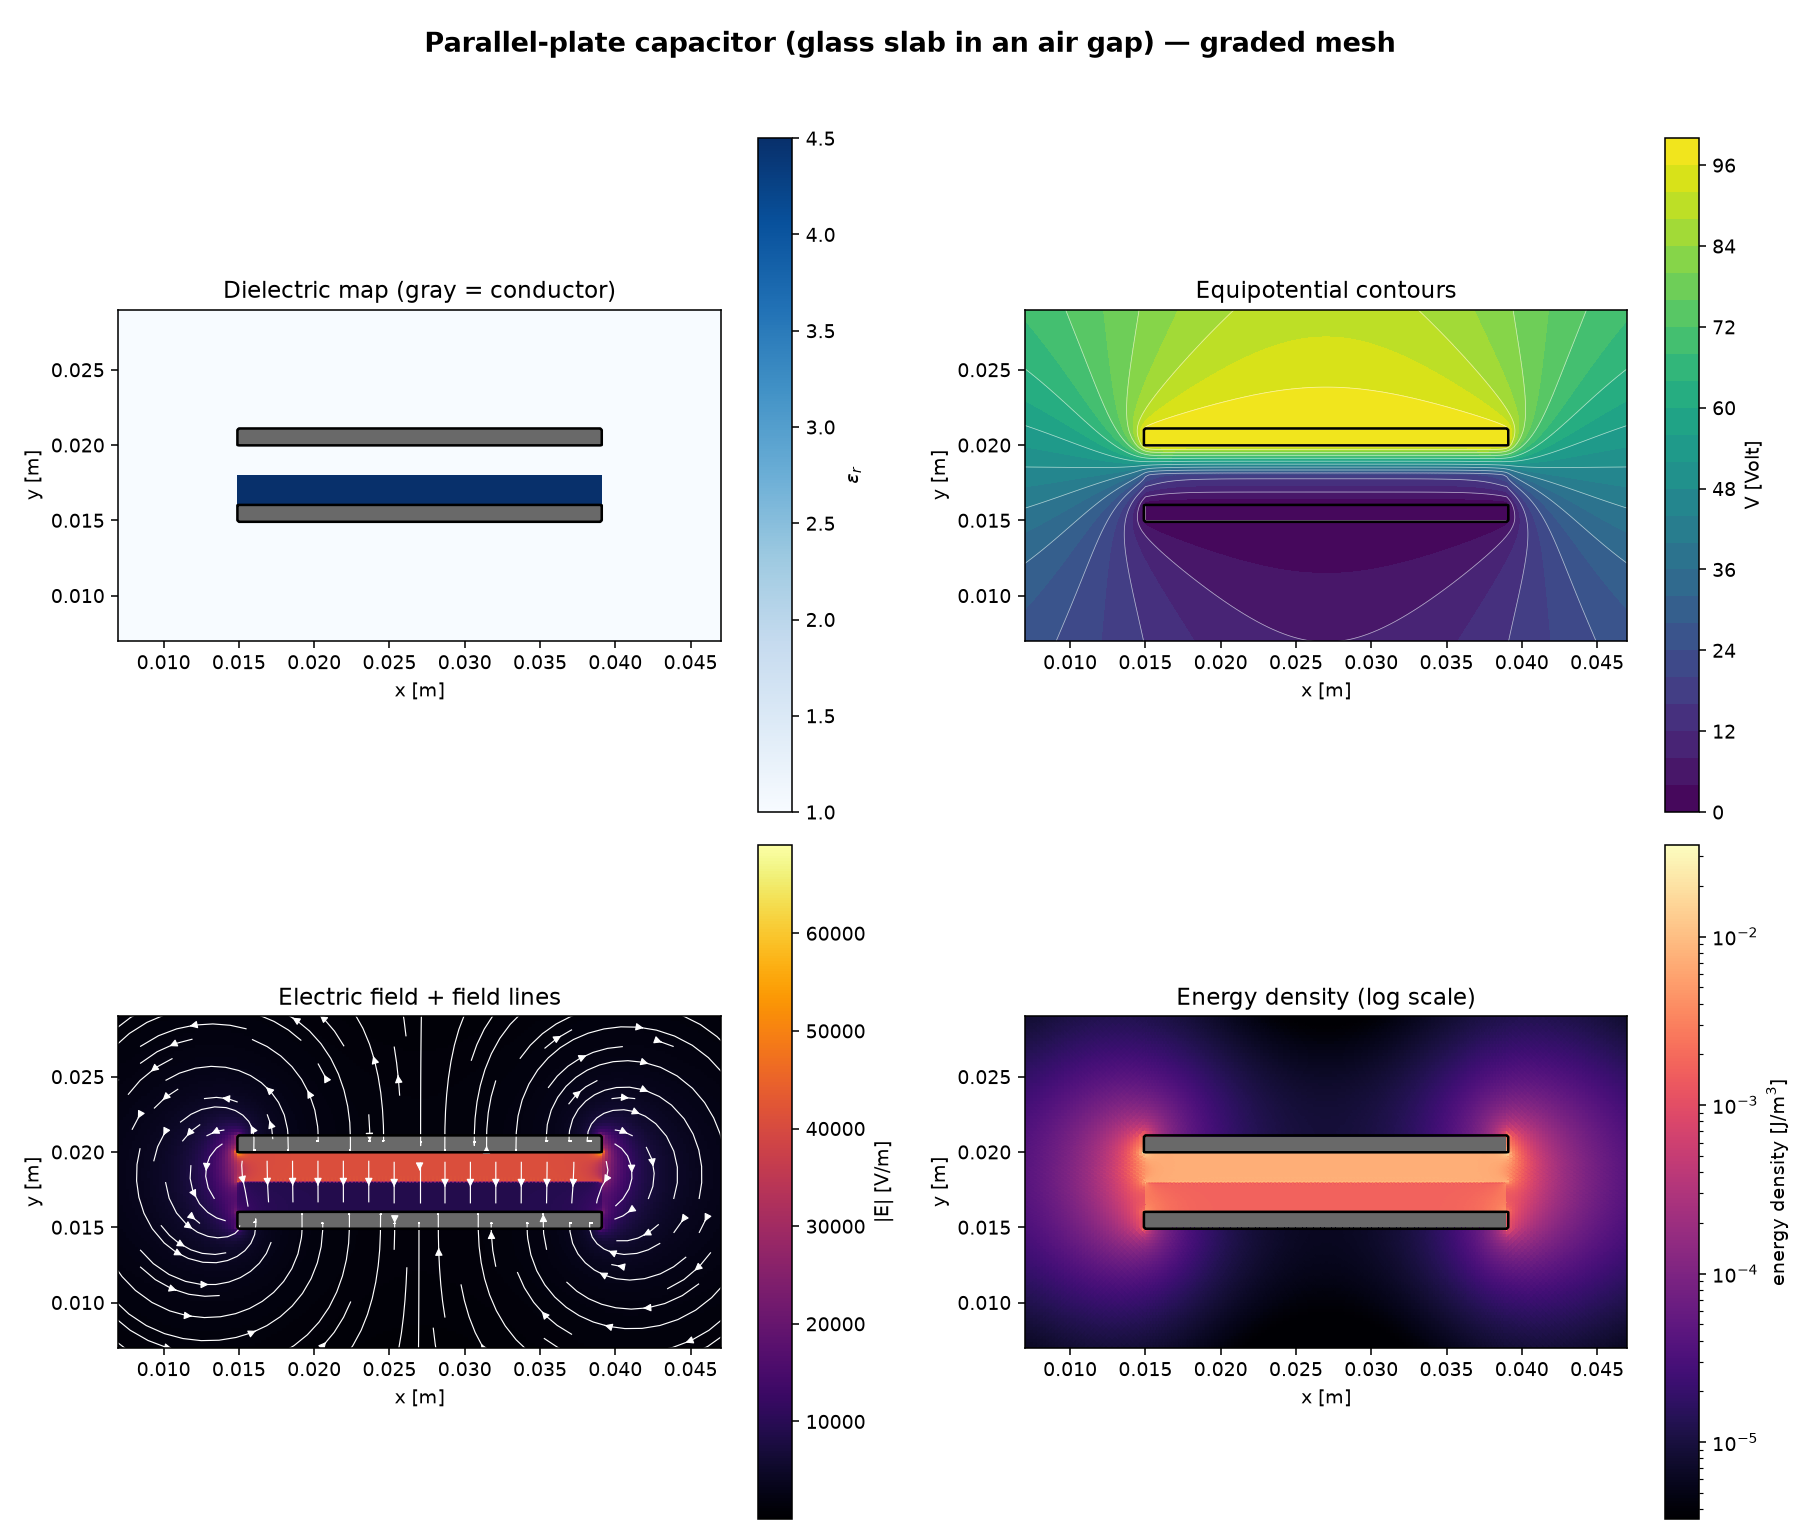
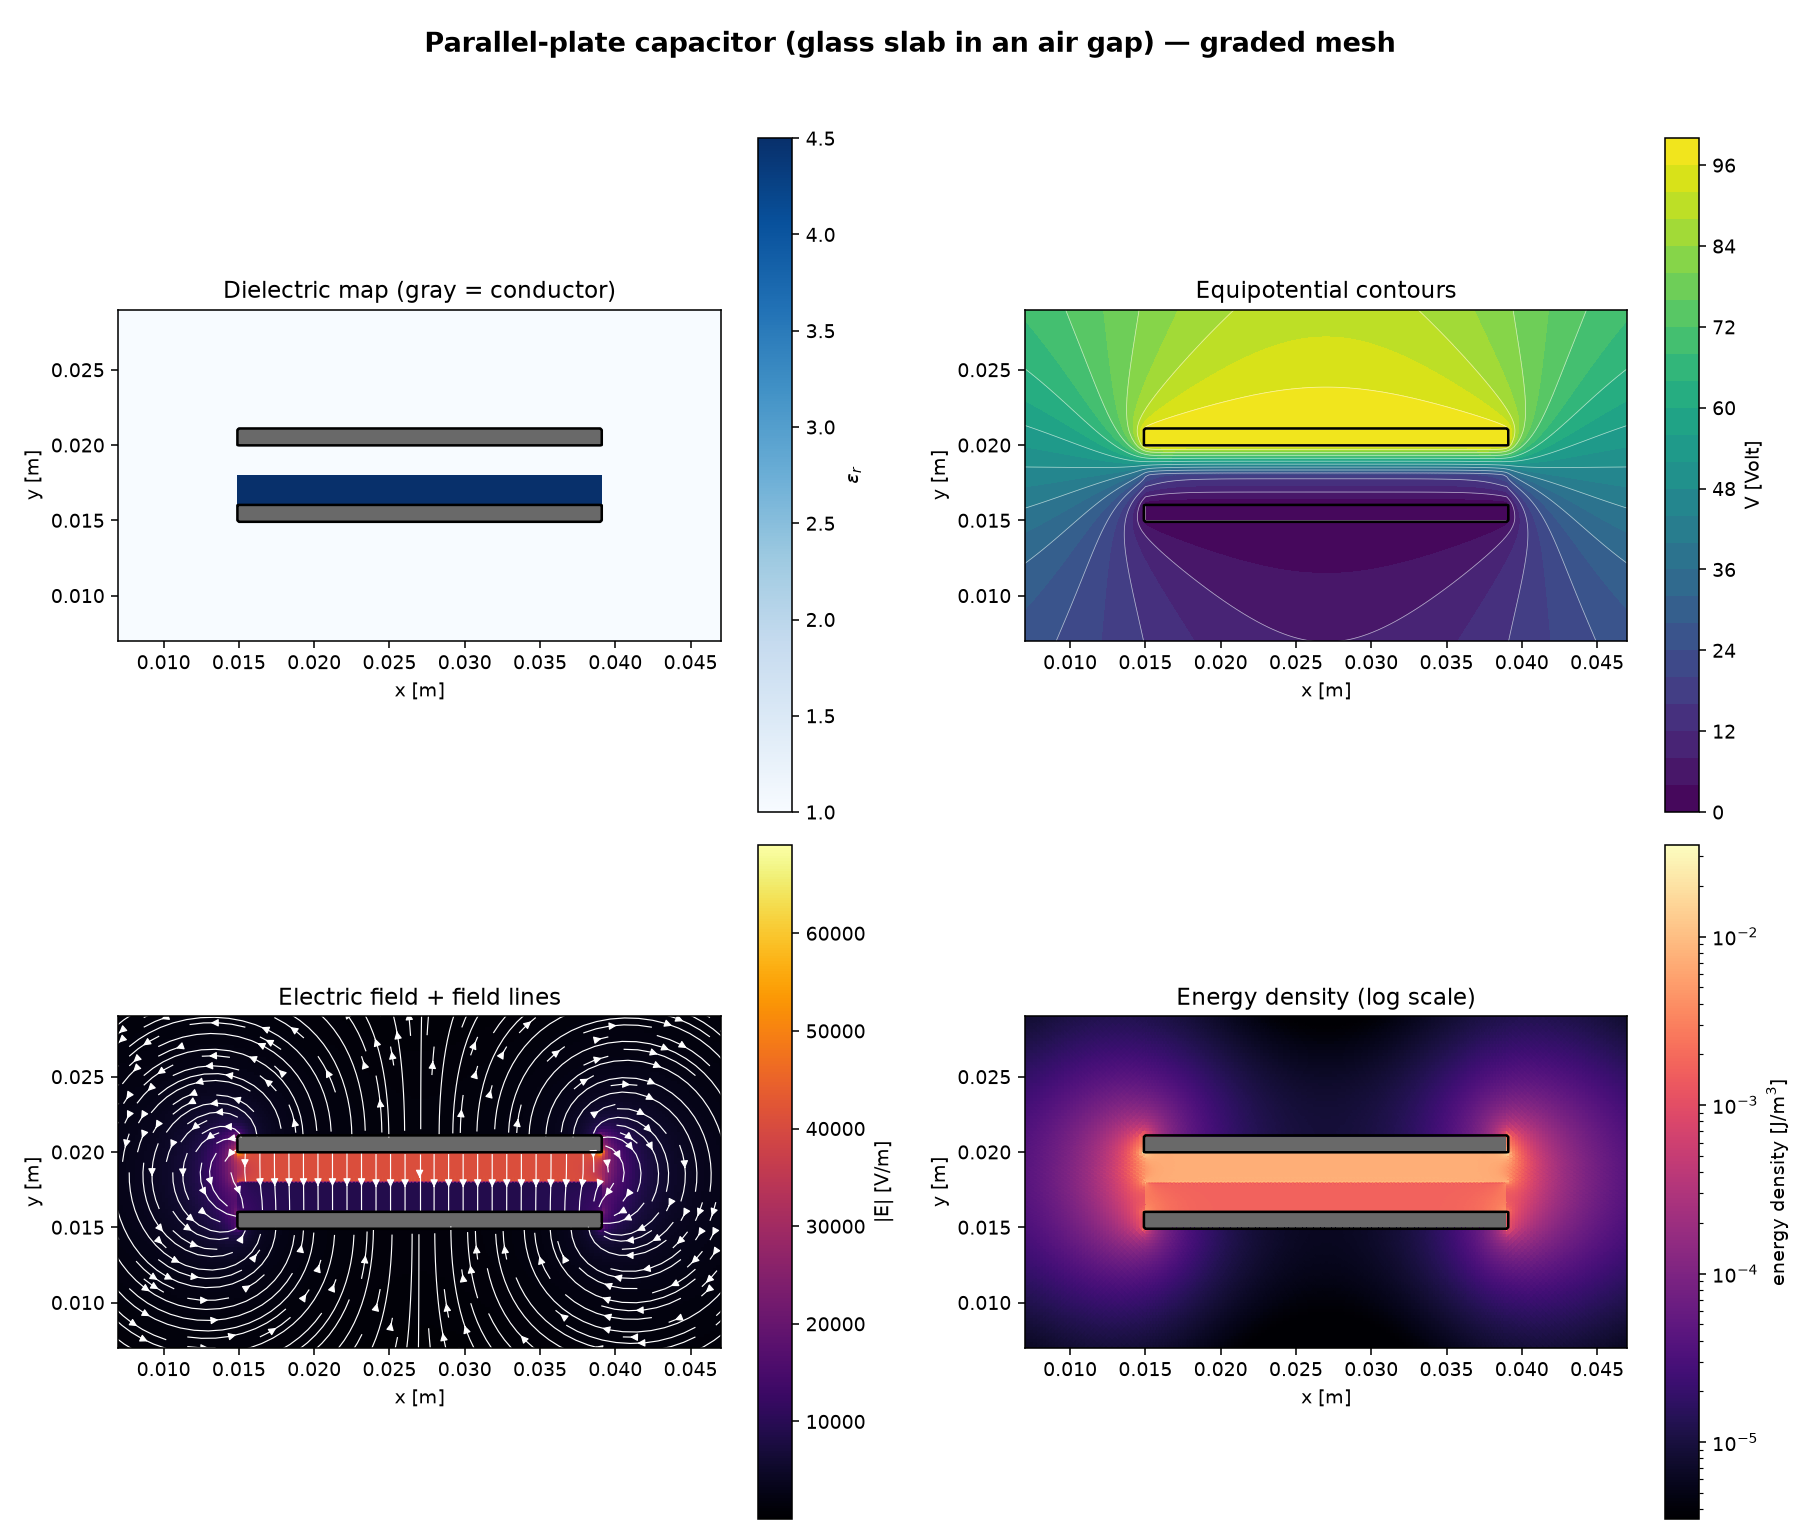
modified:   Development/Refactored/capacitor_fem_graded_tol_refactored.py modified:   Development/capacitor_fem_graded_tol.py modified:   Development/example1_parallel_plate.png modified:   Development/example2_coax.png

Changed region(s): [[0.0615, 0.6545, 0.4, 0.8727]]

diff --git a/Development/capacitor_fem_graded_tol.py b/Development/capacitor_fem_graded_tol.py
@@ -185,7 +185,7 @@ class PlotConfig:
     dpi: int = 140
     potential_fill_levels: int = 25
     potential_line_levels: int = 15
-    streamline_density: float = 1.1
+    streamline_density: float = 1.9
     energy_density_floor: float = 1e-4    # log-scale color vmin, as a fraction of vmax
     conductor_fill_color: str = "dimgray"
     conductor_outline_color: str = "black"
@@ -973,28 +973,68 @@ def plot_solution(mesh, V, eps_r_of_xy, energy_density, conductors, is_fixed,
     outline(ax)
     ax.set_title("Equipotential contours")
 
-    # --- panel 3: field magnitude + streamlines -----------------------------
+        # --- panel 3: field magnitude + streamlines -----------------------------
     ax = axes[1, 0]
     pcm = ax.pcolormesh(X, Y, EmagG_masked, shading="auto", cmap=cmap_inferno)
     fig.colorbar(pcm, ax=ax, label="|E| [V/m]")
-    
-    # streamplot requires evenly spaced data. Interpolate if the mesh is graded.
-    dxs, dys = np.diff(xs), np.diff(ys)
-    is_uniform = np.allclose(dxs, dxs[0]) and np.allclose(dys, dys[0])
-    
-    if is_uniform:
-        xs_sp, ys_sp = xs, ys
-        Ex_sp, Ey_sp = ExG, EyG
-    else:
-        xs_sp = np.linspace(xs[0], xs[-1], len(xs))
-        ys_sp = np.linspace(ys[0], ys[-1], len(ys))
-        spline_ex = interp.RectBivariateSpline(ys, xs, ExG)
-        spline_ey = interp.RectBivariateSpline(ys, xs, EyG)
-        Ex_sp = spline_ex(ys_sp, xs_sp)
-        Ey_sp = spline_ey(ys_sp, xs_sp)
 
-    ax.streamplot(xs_sp, ys_sp, Ex_sp, Ey_sp, color="white",
-                  density=style.streamline_density, linewidth=0.6, arrowsize=0.8, minlength=0.01)
+    # Zero the nodal field inside conductors so streamlines terminate
+    # cleanly at the electrode surface (np.gradient leaves small residuals
+    # on Dirichlet nodes).
+    ExG_plot = np.where(cond_grid, 0.0, ExG)
+    EyG_plot = np.where(cond_grid, 0.0, EyG)
+
+    # streamplot requires equally-spaced coordinates.  On a graded mesh
+    # we therefore interpolate the (already zeroed) nodal field onto a
+    # temporary uniform grid that covers the same bounding box; on a
+    # uniform mesh we can feed the original arrays directly.
+    dx = np.diff(xs)
+    dy = np.diff(ys)
+    is_graded = (np.ptp(dx) > 1e-12 * max(1.0, np.mean(dx)) or
+                 np.ptp(dy) > 1e-12 * max(1.0, np.mean(dy)))
+
+    if is_graded:
+        # denser than the coarsest cell, coarser than the finest cell
+        n_plot_x = max(nx, int(round((xs[-1] - xs[0]) / np.min(dx))) + 1)
+        n_plot_y = max(ny, int(round((ys[-1] - ys[0]) / np.min(dy))) + 1)
+        # keep the temporary grid modest so streamplot stays fast
+        n_plot_x = min(n_plot_x, 400)
+        n_plot_y = min(n_plot_y, 400)
+
+        xs_u = np.linspace(xs[0], xs[-1], n_plot_x)
+        ys_u = np.linspace(ys[0], ys[-1], n_plot_y)
+        Xu, Yu = np.meshgrid(xs_u, ys_u)
+
+        # RegularGridInterpolator needs the original (possibly graded)
+        # coordinate vectors; it handles non-uniform spacing correctly.
+        from scipy.interpolate import RegularGridInterpolator
+        interp_Ex = RegularGridInterpolator(
+            (ys, xs), ExG_plot, bounds_error=False, fill_value=0.0)
+        interp_Ey = RegularGridInterpolator(
+            (ys, xs), EyG_plot, bounds_error=False, fill_value=0.0)
+        # points must be (..., 2) with order (y, x) matching the interpolator
+        pts = np.column_stack([Yu.ravel(), Xu.ravel()])
+        Ex_u = interp_Ex(pts).reshape(Yu.shape)
+        Ey_u = interp_Ey(pts).reshape(Yu.shape)
+
+        # re-apply the conductor mask on the uniform grid so streamlines
+        # still stop at the electrode surfaces
+        cond_u = np.zeros_like(Xu, dtype=bool)
+        for cond in conductors:
+            cond_u |= cond.contains(Xu, Yu)
+        Ex_u = np.where(cond_u, 0.0, Ex_u)
+        Ey_u = np.where(cond_u, 0.0, Ey_u)
+
+        ax.streamplot(xs_u, ys_u, Ex_u, Ey_u,
+                      color="white",
+                      density=style.streamline_density,
+                      linewidth=0.6, arrowsize=0.8, minlength=0.01)
+    else:
+        ax.streamplot(xs, ys, ExG_plot, EyG_plot,
+                      color="white",
+                      density=style.streamline_density,
+                      linewidth=0.6, arrowsize=0.8, minlength=0.01)
+
     outline(ax)
     ax.set_title("Electric field + field lines")
 

diff --git a/Development/Refactored/capacitor_fem_graded_tol_refactored.py b/Development/Refactored/capacitor_fem_graded_tol_refactored.py
@@ -204,7 +204,7 @@ class PlotConfig:
     dpi: int = 140
     potential_fill_levels: int = 25
     potential_line_levels: int = 15
-    streamline_density: float = 1.1
+    streamline_density: float = 1.9
     energy_density_floor: float = 1e-4
     conductor_fill_color: str = "dimgray"
     conductor_outline_color: str = "black"
@@ -695,27 +695,68 @@ def plot_solution(mesh, V, eps_r_of_xy, energy_density, conductors, is_fixed,
     outline(ax)
     ax.set_title("Equipotential contours")
 
-    # Panel 3: field magnitude + streamlines
+        # --- panel 3: field magnitude + streamlines -----------------------------
     ax = axes[1, 0]
     pcm = ax.pcolormesh(X, Y, EmagG_masked, shading="auto", cmap=cmap_inferno)
     fig.colorbar(pcm, ax=ax, label="|E| [V/m]")
 
-    dxs, dys = np.diff(xs), np.diff(ys)
-    is_uniform = np.allclose(dxs, dxs[0]) and np.allclose(dys, dys[0])
-    if is_uniform:
-        xs_sp, ys_sp = xs, ys
-        Ex_sp, Ey_sp = ExG, EyG
-    else:
-        xs_sp = np.linspace(xs[0], xs[-1], len(xs))
-        ys_sp = np.linspace(ys[0], ys[-1], len(ys))
-        spline_ex = interp.RectBivariateSpline(ys, xs, ExG)
-        spline_ey = interp.RectBivariateSpline(ys, xs, EyG)
-        Ex_sp = spline_ex(ys_sp, xs_sp)
-        Ey_sp = spline_ey(ys_sp, xs_sp)
+    # Zero the nodal field inside conductors so streamlines terminate
+    # cleanly at the electrode surface (np.gradient leaves small residuals
+    # on Dirichlet nodes).
+    ExG_plot = np.where(cond_grid, 0.0, ExG)
+    EyG_plot = np.where(cond_grid, 0.0, EyG)
 
-    ax.streamplot(xs_sp, ys_sp, Ex_sp, Ey_sp, color="white",
-                  density=style.streamline_density, linewidth=0.6,
-                  arrowsize=0.8, minlength=0.01)
+    # streamplot requires equally-spaced coordinates.  On a graded mesh
+    # we therefore interpolate the (already zeroed) nodal field onto a
+    # temporary uniform grid that covers the same bounding box; on a
+    # uniform mesh we can feed the original arrays directly.
+    dx = np.diff(xs)
+    dy = np.diff(ys)
+    is_graded = (np.ptp(dx) > 1e-12 * max(1.0, np.mean(dx)) or
+                 np.ptp(dy) > 1e-12 * max(1.0, np.mean(dy)))
+
+    if is_graded:
+        # denser than the coarsest cell, coarser than the finest cell
+        n_plot_x = max(nx, int(round((xs[-1] - xs[0]) / np.min(dx))) + 1)
+        n_plot_y = max(ny, int(round((ys[-1] - ys[0]) / np.min(dy))) + 1)
+        # keep the temporary grid modest so streamplot stays fast
+        n_plot_x = min(n_plot_x, 400)
+        n_plot_y = min(n_plot_y, 400)
+
+        xs_u = np.linspace(xs[0], xs[-1], n_plot_x)
+        ys_u = np.linspace(ys[0], ys[-1], n_plot_y)
+        Xu, Yu = np.meshgrid(xs_u, ys_u)
+
+        # RegularGridInterpolator needs the original (possibly graded)
+        # coordinate vectors; it handles non-uniform spacing correctly.
+        from scipy.interpolate import RegularGridInterpolator
+        interp_Ex = RegularGridInterpolator(
+            (ys, xs), ExG_plot, bounds_error=False, fill_value=0.0)
+        interp_Ey = RegularGridInterpolator(
+            (ys, xs), EyG_plot, bounds_error=False, fill_value=0.0)
+        # points must be (..., 2) with order (y, x) matching the interpolator
+        pts = np.column_stack([Yu.ravel(), Xu.ravel()])
+        Ex_u = interp_Ex(pts).reshape(Yu.shape)
+        Ey_u = interp_Ey(pts).reshape(Yu.shape)
+
+        # re-apply the conductor mask on the uniform grid so streamlines
+        # still stop at the electrode surfaces
+        cond_u = np.zeros_like(Xu, dtype=bool)
+        for cond in conductors:
+            cond_u |= cond.contains(Xu, Yu)
+        Ex_u = np.where(cond_u, 0.0, Ex_u)
+        Ey_u = np.where(cond_u, 0.0, Ey_u)
+
+        ax.streamplot(xs_u, ys_u, Ex_u, Ey_u,
+                      color="white",
+                      density=style.streamline_density,
+                      linewidth=0.6, arrowsize=0.8, minlength=0.01)
+    else:
+        ax.streamplot(xs, ys, ExG_plot, EyG_plot,
+                      color="white",
+                      density=style.streamline_density,
+                      linewidth=0.6, arrowsize=0.8, minlength=0.01)
+
     outline(ax)
     ax.set_title("Electric field + field lines")
 
